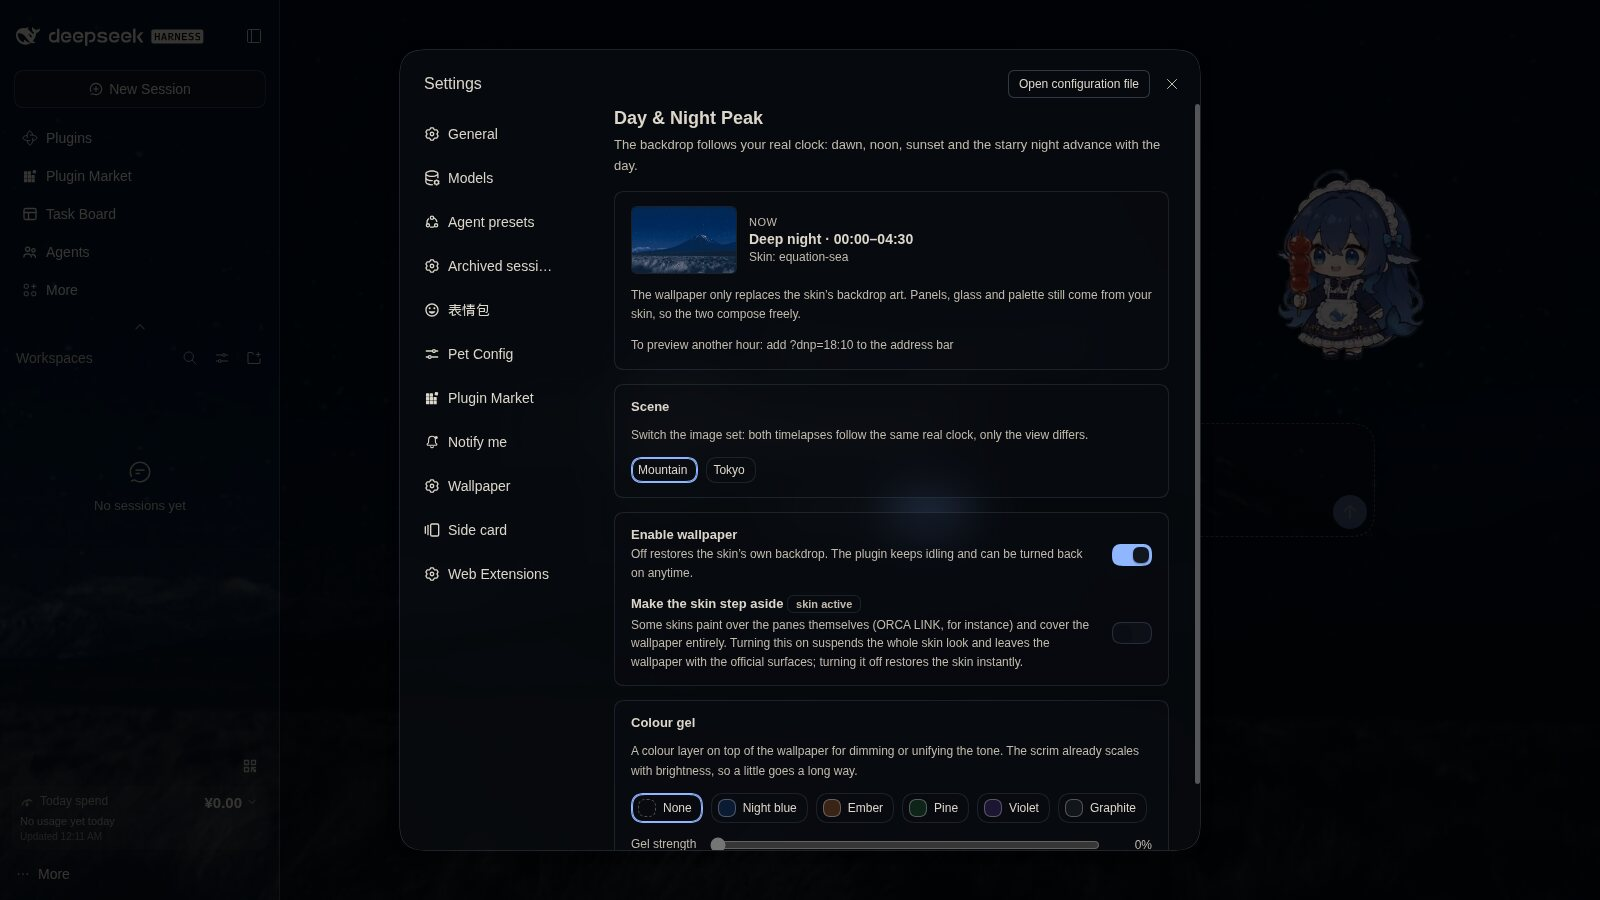
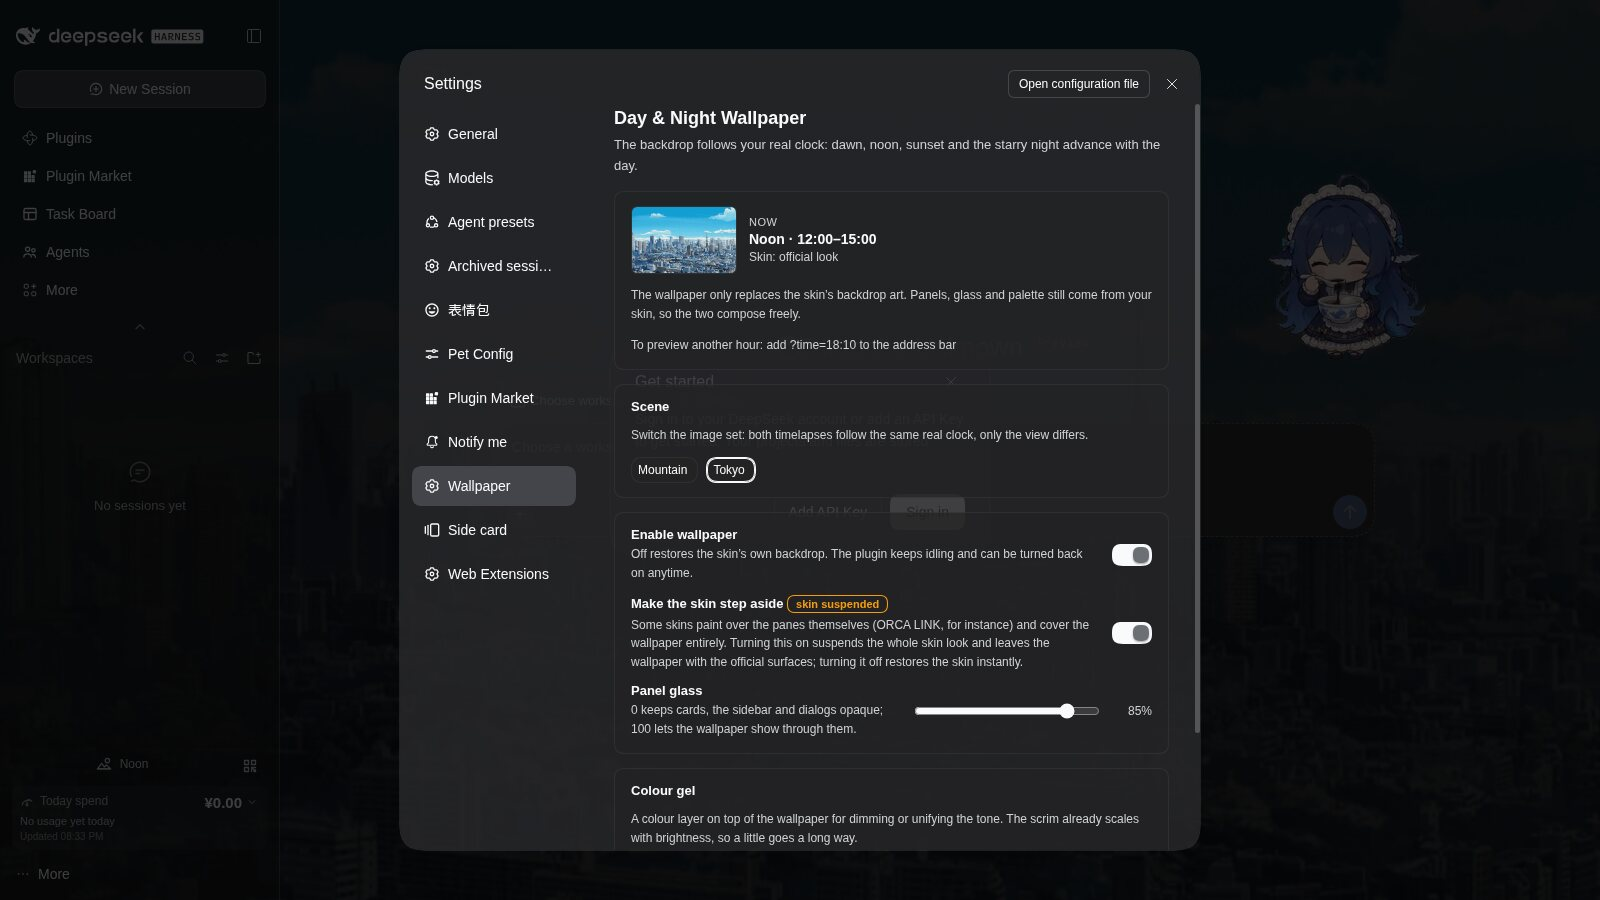
v2.1.0：玻璃面板 + 面板透度设置 + 侧栏一键开关

diff --git a/client.js b/client.js
@@ -43,7 +43,36 @@ window.__ModuleLoader__.load({
     const YIELD_ATTR = 'data-we-wallpaper'
 
     /** 缺省设置：与宿主半区的 DEFAULTS 一致，宿主那份是权威。 */
-    const DEFAULT_SETTINGS = { enabled: true, scene: 'mountain', tint: 'none', tintOpacity: 0, yieldSkin: false }
+    const DEFAULT_SETTINGS = {
+      enabled: true,
+      scene: 'mountain',
+      tint: 'none',
+      tintOpacity: 0,
+      yieldSkin: false,
+      glass: 85,
+    }
+
+    /**
+     * 「玻璃」表：这些面板底色在官方主题里都是不透明的，壁纸会被整片盖住。
+     * 下面这些 alpha 是「面板透度 = 100」时的目标值，实际值按设置插值：
+     * alpha = 1 - (1 - 目标) * glass/100，所以 0 = 完全不动面板、100 = 最透。
+     * 数值取舍：
+     *   - base 是整块画布（外壳 frame / 会话根），压到 0.35 才看得见壁纸；
+     *   - layer-1/2/3 是卡片、按钮、弹层内里的底，压到 0.55–0.70 保留可读性；
+     *   - overlay 是菜单/弹窗，0.88 基本不牺牲可读性；
+     *   - sidebar 单独一个 token，0.45 让侧栏也透一点；
+     *   - 文档预览、代码块这类需要实心底的不在表里，保持原样。
+     */
+    const GLASS = [
+      { token: '--dsw-alias-bg-base', alpha: 0.35 },
+      { token: '--dsw-alias-bg-layer-1', alpha: 0.7 },
+      { token: '--dsw-alias-bg-layer-2', alpha: 0.72 },
+      { token: '--dsw-alias-bg-layer-3', alpha: 0.76 },
+      { token: '--dsw-alias-bg-module-platform', alpha: 0.6 },
+      { token: '--dsw-alias-bg-multi-select', alpha: 0.78 },
+      { token: '--dsw-alias-bg-overlay', alpha: 0.92 },
+      { token: '--dsw-specific-sidebar-fill', alpha: 0.45 },
+    ]
 
     /** 蒙皮预设：id → 色值。null 表示「不罩」。 */
     const TINTS = {
@@ -188,6 +217,10 @@ window.__ModuleLoader__.load({
       tintOpacity: '蒙皮浓度',
       yieldLabel: '让皮肤让位',
       yieldHint: '有些皮肤把画作画在面板上（例如 ORCA LINK），会整片盖住壁纸。打开这个开关会临时收起皮肤的全部外观，只留壁纸 + 官方外观；关掉立刻恢复。',
+      footOn: '昼夜壁纸：{phase} · 点击停用',
+      footOff: '昼夜壁纸：已停用 · 点击启用',
+      glassLabel: '面板透度',
+      glassHint: '0 = 卡片、侧栏、弹窗保持不透明；100 = 它们尽量透，壁纸从按钮和对话框后面露出来。',
       yieldBadgeOn: '皮肤停画中',
       yieldBadgeOff: '皮肤正常显示',
       previewHint: '想先看别的时段：在地址栏加 ?time=18:10',
@@ -219,6 +252,10 @@ window.__ModuleLoader__.load({
       tintOpacity: 'Gel strength',
       yieldLabel: 'Make the skin step aside',
       yieldHint: 'Some skins paint over the panes themselves (ORCA LINK, for instance) and cover the wallpaper entirely. Turning this on suspends the whole skin look and leaves the wallpaper with the official surfaces; turning it off restores the skin instantly.',
+      footOn: 'Day & Night Wallpaper: {phase} · click to turn off',
+      footOff: 'Day & Night Wallpaper: off · click to turn on',
+      glassLabel: 'Panel glass',
+      glassHint: '0 keeps cards, the sidebar and dialogs opaque; 100 lets the wallpaper show through them.',
       yieldBadgeOn: 'skin suspended',
       yieldBadgeOff: 'skin active',
       previewHint: 'To preview another hour: add ?time=18:10 to the address bar',
@@ -322,8 +359,8 @@ window.__ModuleLoader__.load({
       let disposed = false
       let ownYield = false
       const preloads = new Map()
-      /** 底色兜底层：官方外观的 --dsw-alias-bg-base 是不透明的，壁纸会被它整片盖住。 */
-      let baseStyle = null
+      /** 面板玻璃层：把外壳那些不透明的面板底色压成半透明，壁纸才透得出来。 */
+      let glassStyle = null
       /** 预览锁定（`?dnp=HH:MM`），null 表示跟随真实时钟。 */
       const pinned = previewMinutes(doc.location && doc.location.search)
 
@@ -361,6 +398,9 @@ window.__ModuleLoader__.load({
                   ? Math.min(80, Math.max(0, Math.round(Number(settings.tintOpacity))))
                   : 0,
                 yieldSkin: settings.yieldSkin === true,
+                glass: Number.isFinite(Number(settings.glass))
+                  ? Math.min(100, Math.max(0, Math.round(Number(settings.glass))))
+                  : DEFAULT_SETTINGS.glass,
               },
               saveError: false,
             })
@@ -416,44 +456,57 @@ window.__ModuleLoader__.load({
        * 皮肤为什么都把同一个 token 改成半透明的原因。这里做同样的事，但只在需要时：
        * 读出当前底色，把 alpha 压到 ≤0.35 再写回去。已经比 0.35 更透的皮肤不受影响。
        */
-      function refreshBase() {
-        if (baseStyle) {
-          baseStyle.remove()
-          baseStyle = null
+      function refreshGlass() {
+        if (glassStyle) {
+          glassStyle.remove()
+          glassStyle = null
         }
         const body = doc.body
         if (!body) return
         // 先摘掉自己的覆盖再读，否则读到的是上一次的写入值。
-        // 取「真正在画底板」的那个元素的计算后背景色：外壳的 frame 优先，
-        // 其次 body / html。读不到就什么都不做。
-        const candidates = [doc.querySelector('[data-dsh-frame]'), body, doc.documentElement]
-        let base = null
-        for (const element of candidates) {
-          if (!element) continue
-          const matched = /^rgba?\(([^)]+)\)$/.exec(getComputedStyle(element).backgroundColor || '')
-          if (!matched) continue
+        // 每个 token 都用一个隐藏探针把它的「计算后颜色」量出来（皮肤/主题怎么写的都行），
+        // 再压成半透明写回去。读不到的token跳过。
+        const probe = doc.createElement('div')
+        probe.setAttribute('aria-hidden', 'true')
+        probe.style.cssText = 'position:absolute;width:0;height:0;visibility:hidden;'
+        body.appendChild(probe)
+        const read = (token) => {
+          probe.style.backgroundColor = `var(${token})`
+          const matched = /^rgba?\(([^)]+)\)$/.exec(getComputedStyle(probe).backgroundColor || '')
+          if (!matched) return null
           const parts = matched[1].split(',').map((value) => Number(value.trim()))
-          if (parts.length < 3 || parts.slice(0, 3).some((value) => !Number.isFinite(value))) continue
+          if (parts.length < 3 || parts.slice(0, 3).some((value) => !Number.isFinite(value))) return null
           const alpha = parts.length > 3 && Number.isFinite(parts[3]) ? parts[3] : 1
-          if (alpha <= 0) continue
-          base = { r: parts[0], g: parts[1], b: parts[2], a: alpha }
-          break
+          return alpha > 0 ? { r: parts[0], g: parts[1], b: parts[2], a: alpha } : null
         }
-        // 底板本来就够透（皮肤自己处理过）就不插手，保持皮肤原样
-        if (!base || base.a <= 0.35) return
-        const tint = `rgba(${base.r},${base.g},${base.b},0.35)`
-        baseStyle = doc.createElement('style')
-        baseStyle.setAttribute('data-dsh-daynight-wallpaper-base', '')
-        baseStyle.textContent = `:root,body{--dsw-alias-bg-base:${tint} !important}`
-        doc.head.appendChild(baseStyle)
+        const declarations = []
+        // 面板透度：0 = 一键回到完全不透明，100 = 用表里的目标 alpha
+        const strength = Math.min(100, Math.max(0, Number(snap.settings.glass) || 0)) / 100
+        for (const surface of GLASS) {
+          const color = read(surface.token)
+          const target = 1 - (1 - surface.alpha) * strength
+          // 本来就比目标更透（皮肤自己处理过）就不插手
+          if (!color || color.a <= target) continue
+          // 注意：!important 是逐条声明生效的，必须写在每一条上（曾经只写在最后一条，
+          // 结果前面几条被主题的值压住，看起来像"改了没生效"）
+          declarations.push(
+            `${surface.token}:rgba(${color.r},${color.g},${color.b},${target.toFixed(3)}) !important`,
+          )
+        }
+        probe.remove()
+        if (declarations.length === 0) return
+        glassStyle = doc.createElement('style')
+        glassStyle.setAttribute('data-dsh-daynight-wallpaper-glass', '')
+        glassStyle.textContent = `:root,body{${declarations.join(';')}}`
+        doc.head.appendChild(glassStyle)
       }
 
-      /** 图层真正可见时才有必要动底色。 */
-      function syncBase(visible) {
-        if (visible) refreshBase()
-        else if (baseStyle) {
-          baseStyle.remove()
-          baseStyle = null
+      /** 图层真正可见时才有必要动这些面板底色。 */
+      function syncGlass(visible) {
+        if (visible) refreshGlass()
+        else if (glassStyle) {
+          glassStyle.remove()
+          glassStyle = null
         }
       }
 
@@ -475,7 +528,7 @@ window.__ModuleLoader__.load({
           tintEl.style.backgroundColor = color || 'transparent'
           tintEl.style.opacity = color ? String(Math.min(80, Math.max(0, tintOpacity)) / 100) : '0'
         }
-        syncBase(enabled)
+        syncGlass(enabled)
         if (enabled) render()
       }
 
@@ -555,10 +608,10 @@ window.__ModuleLoader__.load({
         const yielded = body.hasAttribute(YIELD_ATTR) && !ownYield
         if (yielded || !snap.settings.enabled) {
           layer.style.display = 'none'
-          syncBase(false)
+          syncGlass(false)
           return
         }
-        if (!baseStyle) refreshBase()
+        if (!glassStyle) refreshGlass()
         layer.style.display = ''
         if (!points) return
 
@@ -695,7 +748,7 @@ window.__ModuleLoader__.load({
         })
         // 皮肤切换会换掉 --dsw-alias-bg-base，重算底色兜底
         if (doc.documentElement) {
-          skinObserver = new MutationObserver(() => refreshBase())
+          skinObserver = new MutationObserver(() => refreshGlass())
           skinObserver.observe(doc.documentElement, {
             attributes: true,
             attributeFilter: ['data-dsh-skin'],
@@ -726,7 +779,7 @@ window.__ModuleLoader__.load({
           if (refreshTimer) clearInterval(refreshTimer)
           if (observer) observer.disconnect()
           if (skinObserver) skinObserver.disconnect()
-          if (baseStyle) baseStyle.remove()
+          if (glassStyle) glassStyle.remove()
           doc.removeEventListener('DOMContentLoaded', boot)
           doc.removeEventListener('visibilitychange', onResume)
           if (layer && layer.parentNode) layer.parentNode.removeChild(layer)
@@ -886,6 +939,30 @@ window.__ModuleLoader__.load({
                 onChange: (value) => saveSettings({ yieldSkin: value }),
               }),
             ),
+            React.createElement(
+              'div',
+              { className: 'dnw-row' },
+              React.createElement(
+                'div',
+                { className: 'dnw-rowText' },
+                React.createElement('span', { className: 'dnw-label' }, t('glassLabel')),
+                React.createElement('span', { className: 'dnw-hint' }, t('glassHint')),
+              ),
+              React.createElement(
+                'div',
+                { className: 'dnw-sliderRow', style: { flex: '0 0 240px' } },
+                React.createElement('input', {
+                  className: 'dnw-range',
+                  type: 'range',
+                  min: 0,
+                  max: 100,
+                  step: 5,
+                  value: settings.glass,
+                  onChange: (event) => saveSettings({ glass: Number(event.target.value) }),
+                }),
+                React.createElement('span', { className: 'dnw-value' }, `${settings.glass}%`),
+              ),
+            ),
             page.saveError ? React.createElement('span', { className: 'dnw-err' }, t('saveFailed')) : null,
           ),
           React.createElement(
@@ -934,6 +1011,90 @@ window.__ModuleLoader__.load({
             ),
           ),
         )
+      }
+
+      /** 侧栏页脚的小按钮：一眼看状态，一键开关壁纸。 */
+      function WallpaperButton(props) {
+        const locale = props.locale
+        if (locale && typeof locale.subscribe === 'function') {
+          React.useSyncExternalStore(
+            (cb) => locale.subscribe(cb),
+            () => locale.getSnapshot(),
+          )
+        }
+        const page = React.useSyncExternalStore(subscribe, getSnapshot)
+        const activeLocale = locale && typeof locale.getLocale === 'function' ? locale.getLocale().active : 'en'
+        const phase = page.status
+          ? activeLocale === 'en'
+            ? page.status.labelEn || page.status.label
+            : page.status.label || page.status.labelEn
+          : ''
+        const on = page.settings.enabled
+        const label = (on ? t('footOn') : t('footOff')).replace('{phase}', phase || '—')
+        return React.createElement(
+          'button',
+          {
+            type: 'button',
+            'data-wide': props.wide ? 'wide' : 'rail',
+            'data-dsh-part': 'daynight-wallpaper-toggle',
+            'aria-pressed': on,
+            'aria-label': label,
+            title: label,
+            onClick: () => saveSettings({ enabled: !on }),
+            style: {
+              display: 'inline-flex',
+              alignItems: 'center',
+              justifyContent: 'center',
+              gap: 8,
+              width: props.wide ? '100%' : 32,
+              height: 32,
+              padding: props.wide ? '0 10px' : 0,
+              borderRadius: 8,
+              border: 'none',
+              background: 'transparent',
+              color: 'var(--dsw-alias-label-secondary, inherit)',
+              cursor: 'pointer',
+              opacity: on ? 1 : 0.45,
+              fontSize: 12,
+            },
+          },
+          React.createElement(
+            'svg',
+            {
+              width: 16,
+              height: 16,
+              viewBox: '0 0 16 16',
+              fill: 'none',
+              stroke: 'currentColor',
+              strokeWidth: 1.3,
+              strokeLinecap: 'round',
+              strokeLinejoin: 'round',
+              'aria-hidden': 'true',
+            },
+            React.createElement('circle', { cx: 11.4, cy: 4.6, r: 2.2 }),
+            React.createElement('path', { d: 'M1.5 12.8 L5.6 7.4 L8.4 11 L10.2 8.9 L14.5 12.8 Z' }),
+            React.createElement('path', { d: 'M1.5 12.8 H14.5' }),
+            on ? null : React.createElement('path', { d: 'M2.4 2.4 L13.6 13.6' }),
+          ),
+          props.wide ? React.createElement('span', null, phase || '') : null,
+        )
+      }
+
+      try {
+        ctx.slots.inject('sidebar.footer.action', () =>
+          ctx.slots.register(
+            {
+              name: 'sidebar.footer.action',
+              id: 'daynight-wallpaper-toggle',
+              order: 40,
+              locale: NS,
+              inject: () => ({ t, locale: ctx.locale }),
+            },
+            WallpaperButton,
+          ),
+        )
+      } catch (error) {
+        /* 老宿主没有这个槽位就静默跳过，设置页仍然可用 */
       }
 
       ctx.slots.inject('settings.section', () =>

diff --git a/index.js b/index.js
@@ -60,6 +60,8 @@ const DEFAULTS = {
   tint: 'none',
   /** 蒙皮浓度 0–80（%）。整层纱已经有亮度自适应，这里只给用户额外压暗/调色的余地 */
   tintOpacity: 0,
+  /** 面板透度 0–100：0 = 面板保持不透明，100 = 最透（壁纸透过卡片/侧栏/弹窗） */
+  glass: 85,
   /** 让皮肤让位：给 body 打 data-we-wallpaper，皮肤中心会整体停画 */
   yieldSkin: false,
 }
@@ -106,6 +108,9 @@ function sanitize(input, sceneIds) {
     scene: scenes.includes(merged.scene) ? merged.scene : scenes[0],
     tint: TINT_IDS.includes(merged.tint) ? merged.tint : DEFAULTS.tint,
     tintOpacity: Number.isFinite(opacity) ? Math.min(80, Math.max(0, Math.round(opacity))) : DEFAULTS.tintOpacity,
+    glass: Number.isFinite(Number(merged.glass))
+      ? Math.min(100, Math.max(0, Math.round(Number(merged.glass))))
+      : DEFAULTS.glass,
     yieldSkin: merged.yieldSkin === true,
   }
 }

diff --git a/README.md b/README.md
@@ -19,7 +19,10 @@
 * **纱随亮度走**：遮罩浓度按每个场景自己的亮度范围归一化（最深夜 ≈0.02、最亮昼 ≈0.32），
   面板文字对比度一整天不大起大落。
 * **蒙皮**：6 种预设色 + 0–80% 浓度，压在壁纸之上、纱之下。
+* **玻璃面板**：把外壳那批不透明的面板底色（画布 / 卡片 / 侧栏 / 菜单 / 弹窗）压成半透明，
+  壁纸能从按钮和对话框后面透出来；「面板透度」滑杆 0–100 可调（0 = 完全不动面板）。
 * **与皮肤共存**：默认只替换皮肤的背景画作，面板/玻璃/配色仍然是你的皮肤。
+* **侧栏一键开关**：设置按钮旁边多一个太阳/山影小按钮，显示当前时段，点一下开/关壁纸。
 * **皮肤让位**：某些皮肤把画作画在面板上（会整片盖住壁纸），设置里一键临时收起皮肤外观。
 * **底色兜底**：官方外观的外壳底板是不透明的，插件会在壁纸可见时把它压到 ≤0.35 透明
   （皮肤本来就比这更透则不插手），这样"没装皮肤中心也能用"。
@@ -47,6 +50,8 @@ plugin_manager remove_bundle target="@local/dsh-daynight-wallpaper"
 
 * **场景**：设置 → 壁纸 → Scene，选雪峰或东京。
 * **蒙皮**：同页，选颜色 + 拉浓度。
+* **面板透度**：同页，0 = 卡片/侧栏/弹窗保持不透明，100 = 尽量透。
+* **快速开关**：侧栏页脚（设置按钮左侧）的小按钮，悬停看当前时段，点一下开关壁纸。
 * **让皮肤让位**：同页开关，等价于给 `body` 打 `data-we-wallpaper`（皮肤中心读到即整体停画）。
 * **预览任意时刻**：地址栏加 `?time=18:10`（旧写法 `?dnp=18:10` 仍认），只影响当前页面。
 
@@ -100,6 +105,19 @@ assets/
 * 与 `dsh-client-ui-skin-center`（`dsh-web-all` 家族）共存；**不依赖**它——没装也能画。
 * 设置存放：`$DSH_HOME/daynight-wallpaper/settings.json`；
   写操作有同源围栏（`sec-fetch-site` / `Origin` vs Host），跨站直接 403。
+
+## 与 ORCA LINK 那种「可变背景」的区别
+
+ORCA LINK 的背景会随**会话状态**变（空态角色 / 开工后的工作场景），它走的是一条很窄的路：
+皮肤 v2 清单允许 `facets.client.entry = hooks.mjs`，hooks 是「受信逃逸舱」，
+只放行内置皮肤与带 `dsh-market.provenance.json` 且 sha256 逐字节对得上的市场安装。
+它的实现是：hooks 里监听会话根的 `[data-phase]`（`hero` / `settling` / `active`）→
+往 `body` 写 `data-orca-link-scene` → CSS 在两份背景图变量之间交叉淡化
+（`--orca-link-light-hero-art` / `-active-art`，图案来自 `ctx.assetBase/assets/*`）。
+
+本插件不依赖皮肤系统：它是 bundle 的浏览器半区，能直接读时钟、请求帧、改面板底色，
+所以既不需要 provenance 校验，也不受「皮肤只能声明静态背景媒体」的限制；
+两套取景则是运行时可切换的 `assets/scenes.json` 目录。
 
 ## 已知取舍
 
